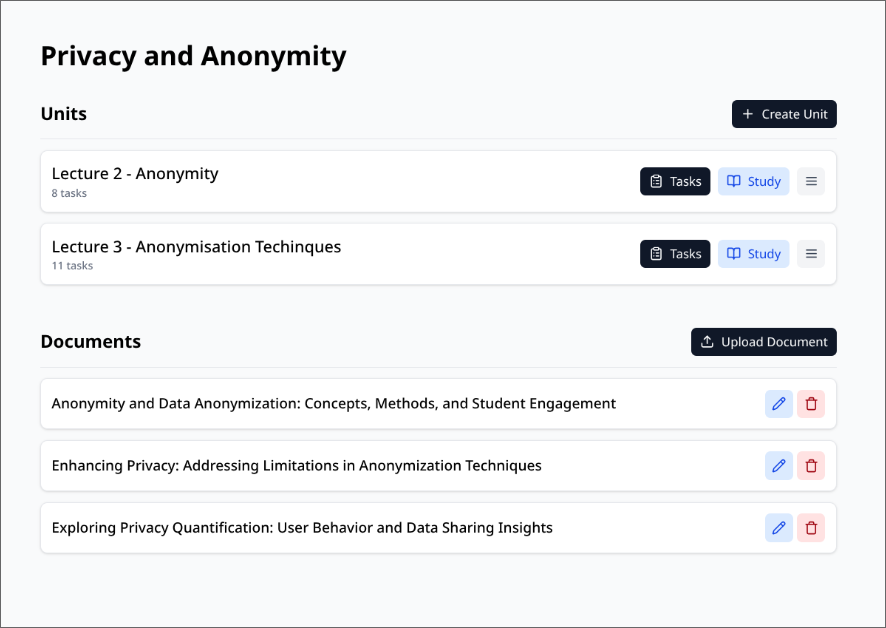
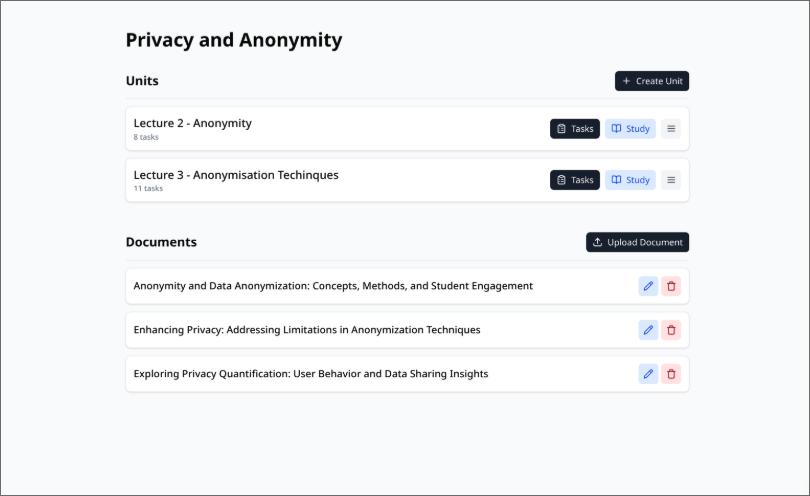
feat: update ProjectCard component to support optional GitHub URL and improve layout; add new image assets

diff --git a/src/content/translations.ts b/src/content/translations.ts
@@ -38,23 +38,23 @@ const translations = {
         projects: {
             title: 'Previous Work',
             its: {
-                title: 'AI-Powered Learning Platform',
-                description: 'An intelligent system that helps organizations train employees more effectively using AI. Automatically creates personalized learning experiences from your materials.',
-                tech: 'AI Solutions, Web Applications',
+                title: 'Privacy-Focused Intelligent Tutoring System',
+                description: 'A modern, privacy-conscious intelligent tutoring system for students and universities. Generates personalized learning tasks from course materials while giving you full control over your data. Features document upload, AI-generated multiple-choice questions, personalized learning with feedback, and course management.',
+                tech: 'AI Solutions, Web Applications, Learning Management',
                 github: 'View on GitHub',
                 live: 'Live Demo',
             },
             databites: {
                 title: 'Databites',
                 description: 'Databites combines real-time analytics, AI-driven task planning, digital branch audits, and a complete communication system – all in one platform. Successful bakeries use intelligent data.',
-                tech: 'AI Solutions, Business Platform',
+                tech: 'AI Solutions, Business Platform, Data Analysis',
                 github: 'View Website',
                 live: 'Visit Website',
             },
             certusai: {
                 title: 'CertusAI',
                 description: 'Award-winning AI platform simplifying access to Swiss law. Winner of "Best Usage of Apertus" at Swiss AI Weeks Hackathon 2025 (CHF 10,000). An intelligent legal assistant that makes Swiss bureaucracy and law accessible to everyone.',
-                tech: 'AI Solutions, Legal Tech',
+                tech: 'AI Solutions, Legal Tech, Hackathon',
                 github: 'View on GitHub',
                 live: 'View Project',
             },
@@ -127,23 +127,23 @@ const translations = {
         projects: {
             title: 'Bisherige Arbeit',
             its: {
-                title: 'KI-gestützte Lernplattform',
-                description: 'Ein intelligentes System, das Organisationen hilft, Mitarbeiter effektiver mit KI zu schulen. Erstellt automatisch personalisierte Lernerfahrungen aus Ihren Materialien.',
-                tech: 'KI-Lösungen, Webanwendungen',
+                title: 'Datenschutzorientiertes Intelligentes Tutoring-System',
+                description: 'Ein modernes, datenschutzorientiertes intelligentes Tutoring-System für Studierende und Universitäten. Erstellt personalisierte Lernaufgaben aus Kursmaterialien und gibt Ihnen volle Kontrolle über Ihre Daten.',
+                tech: 'Webanwendungen, Lernmanagement System, KI-Lösungen',
                 github: 'Auf GitHub ansehen',
                 live: 'Live Demo',
             },
             databites: {
                 title: 'Databites',
                 description: 'Databites vereint Echtzeit-Analytics, KI-gesteuerte Aufgabenplanung, digitale Filialaudits und ein vollständiges Kommunikationssystem – alles in einer Plattform. Erfolgreiche Bäckereien nutzen intelligente Daten.',
-                tech: 'KI-Lösungen, Geschäftsplattform',
+                tech: 'Geschäftsplattform, Datenanalyse, KI-Lösungen',
                 github: 'Website ansehen',
                 live: 'Zur Website',
             },
             certusai: {
                 title: 'CertusAI',
                 description: 'Preisgekrönte KI-Plattform, die den Zugang zum Schweizer Recht vereinfacht. Gewinner von "Best Usage of Apertus" bei Swiss AI Weeks Hackathon 2025 (CHF 10.000). Ein intelligenter Rechtsassistent, der Schweizer Bürokratie und Recht für alle zugänglich macht.',
-                tech: 'KI-Lösungen, Legal Tech',
+                tech: 'KI-Lösungen, Legal Tech, Hackathon',
                 github: 'Auf GitHub ansehen',
                 live: 'Projekt ansehen',
             },

diff --git a/src/components/ProjectCard.tsx b/src/components/ProjectCard.tsx
@@ -5,7 +5,7 @@ interface ProjectCardProps {
   title: string;
   description: string;
   tech: string;
-  githubUrl: string;
+  githubUrl?: string;
   liveUrl?: string;
   image?: string;
 }
@@ -14,12 +14,12 @@ export const ProjectCard = ({ title, description, tech, githubUrl, liveUrl, imag
   return (
     <div className="bg-background border border-border rounded-lg overflow-hidden shadow-sm hover:shadow-md transition-shadow">
       {/* Screenshot */}
-      <div className="aspect-video bg-gray-100 overflow-hidden">
+      <div className="aspect-[16/9] bg-gray-100 overflow-hidden">
         {image ? (
-          <img 
-            src={image} 
+          <img
+            src={image}
             alt={`${title} screenshot`}
-            className="w-full h-full object-cover scale-100"
+            className="w-full h-full object-cover"
           />
         ) : (
           <PhotoPlaceholder className="w-full h-full rounded-none" />
@@ -30,40 +30,45 @@ export const ProjectCard = ({ title, description, tech, githubUrl, liveUrl, imag
       <div className="p-6 space-y-4">
         <h3 className="text-xl font-bold text-text">{title}</h3>
         <p className="text-text-secondary leading-relaxed">{description}</p>
-        
-        {/* Tech Stack */}
-        <div className="flex flex-wrap gap-2">
-          {tech.split(', ').map((item, index) => (
-            <span
-              key={index}
-              className="px-3 py-1 text-xs font-medium bg-gray-100 text-text-secondary rounded-md"
-            >
-              {item.trim()}
-            </span>
-          ))}
-        </div>
 
-        {/* Links */}
-        <div className="flex items-center gap-4 pt-2">
-          <a
-            href={githubUrl}
-            target="_blank"
-            rel="noopener noreferrer"
-            className="flex items-center gap-2 text-primary hover:text-primary-dark transition-colors text-sm font-medium"
-          >
-            <Github className="w-4 h-4" />
-            GitHub
-          </a>
-          {liveUrl && (
-            <a
-              href={liveUrl}
-              target="_blank"
-              rel="noopener noreferrer"
-              className="flex items-center gap-2 text-primary hover:text-primary-dark transition-colors text-sm font-medium"
-            >
-              <ExternalLink className="w-4 h-4" />
-              Live
-            </a>
+        {/* Tech Stack and Links */}
+        <div className="flex items-center justify-between gap-4 flex-wrap">
+          <div className="flex flex-wrap gap-2">
+            {tech.split(', ').map((item, index) => (
+              <span
+                key={index}
+                className="px-3 py-1 text-xs font-medium bg-gray-100 text-text-secondary rounded-md"
+              >
+                {item.trim()}
+              </span>
+            ))}
+          </div>
+
+          {(githubUrl || liveUrl) && (
+            <div className="flex items-center gap-4">
+              {githubUrl && githubUrl !== 'undefined' && (
+                <a
+                  href={githubUrl}
+                  target="_blank"
+                  rel="noopener noreferrer"
+                  className="flex items-center gap-2 text-primary hover:text-primary-dark transition-colors text-sm font-medium"
+                >
+                  <Github className="w-4 h-4" />
+                  GitHub
+                </a>
+              )}
+              {liveUrl && (
+                <a
+                  href={liveUrl}
+                  target="_blank"
+                  rel="noopener noreferrer"
+                  className="flex items-center gap-2 text-primary hover:text-primary-dark transition-colors text-sm font-medium"
+                >
+                  <ExternalLink className="w-4 h-4" />
+                  Live
+                </a>
+              )}
+            </div>
           )}
         </div>
       </div>

diff --git a/src/components/Projects.tsx b/src/components/Projects.tsx
@@ -6,19 +6,10 @@ export const Projects = () => {
 
   const projects = [
     {
-      title: t('projects.its.title'),
-      description: t('projects.its.description'),
-      tech: t('projects.its.tech'),
-      githubUrl: 'https://github.com/saurluca/its',
-      liveUrl: 'https://tutor.ethz.ch',
-      image: '/2.png',
-    },
-    {
       title: t('projects.databites.title'),
       description: t('projects.databites.description'),
       tech: t('projects.databites.tech'),
-      githubUrl: 'https://databites.de/',
-      liveUrl: 'https://databites.de/',
+      liveUrl: "https://databites.de/",
       image: '/databites.png',
     },
     {
@@ -26,19 +17,25 @@ export const Projects = () => {
       description: t('projects.certusai.description'),
       tech: t('projects.certusai.tech'),
       githubUrl: 'https://github.com/saurluca/CertusAI',
-      liveUrl: undefined,
       image: '/certus-ai.png',
+    },
+    {
+      title: t('projects.its.title'),
+      description: t('projects.its.description'),
+      tech: t('projects.its.tech'),
+      githubUrl: 'https://github.com/saurluca/its',
+      image: '/image2.png',
     },
   ];
 
   return (
     <section id="projects" className="py-16 md:py-24 px-4 sm:px-6 lg:px-8 bg-background">
-      <div className="max-w-7xl mx-auto">
+      <div className="max-w-5xl mx-auto">
         <h2 className="text-3xl sm:text-4xl font-bold text-text mb-12 text-center">
           {t('projects.title')}
         </h2>
-        
-        <div className="grid grid-cols-1 md:grid-cols-2 lg:grid-cols-3 gap-8">
+
+        <div className="space-y-14">
           {projects.map((project, index) => (
             <ProjectCard key={index} {...project} />
           ))}
